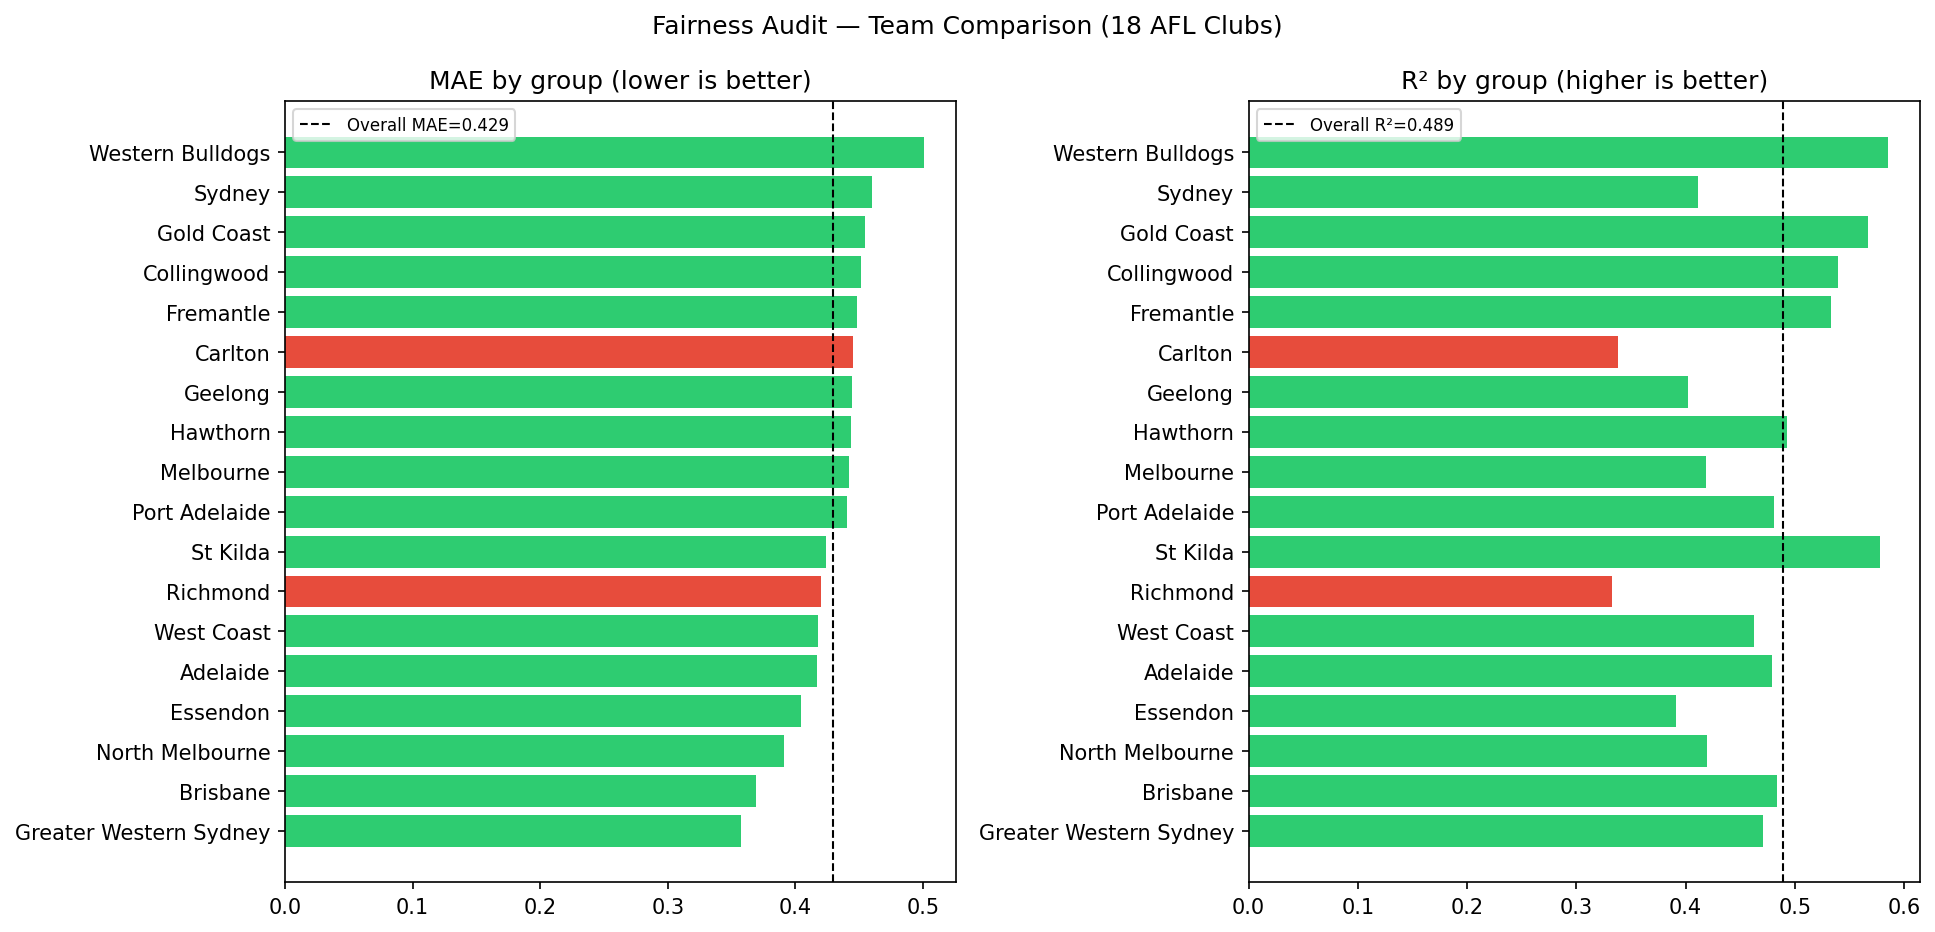
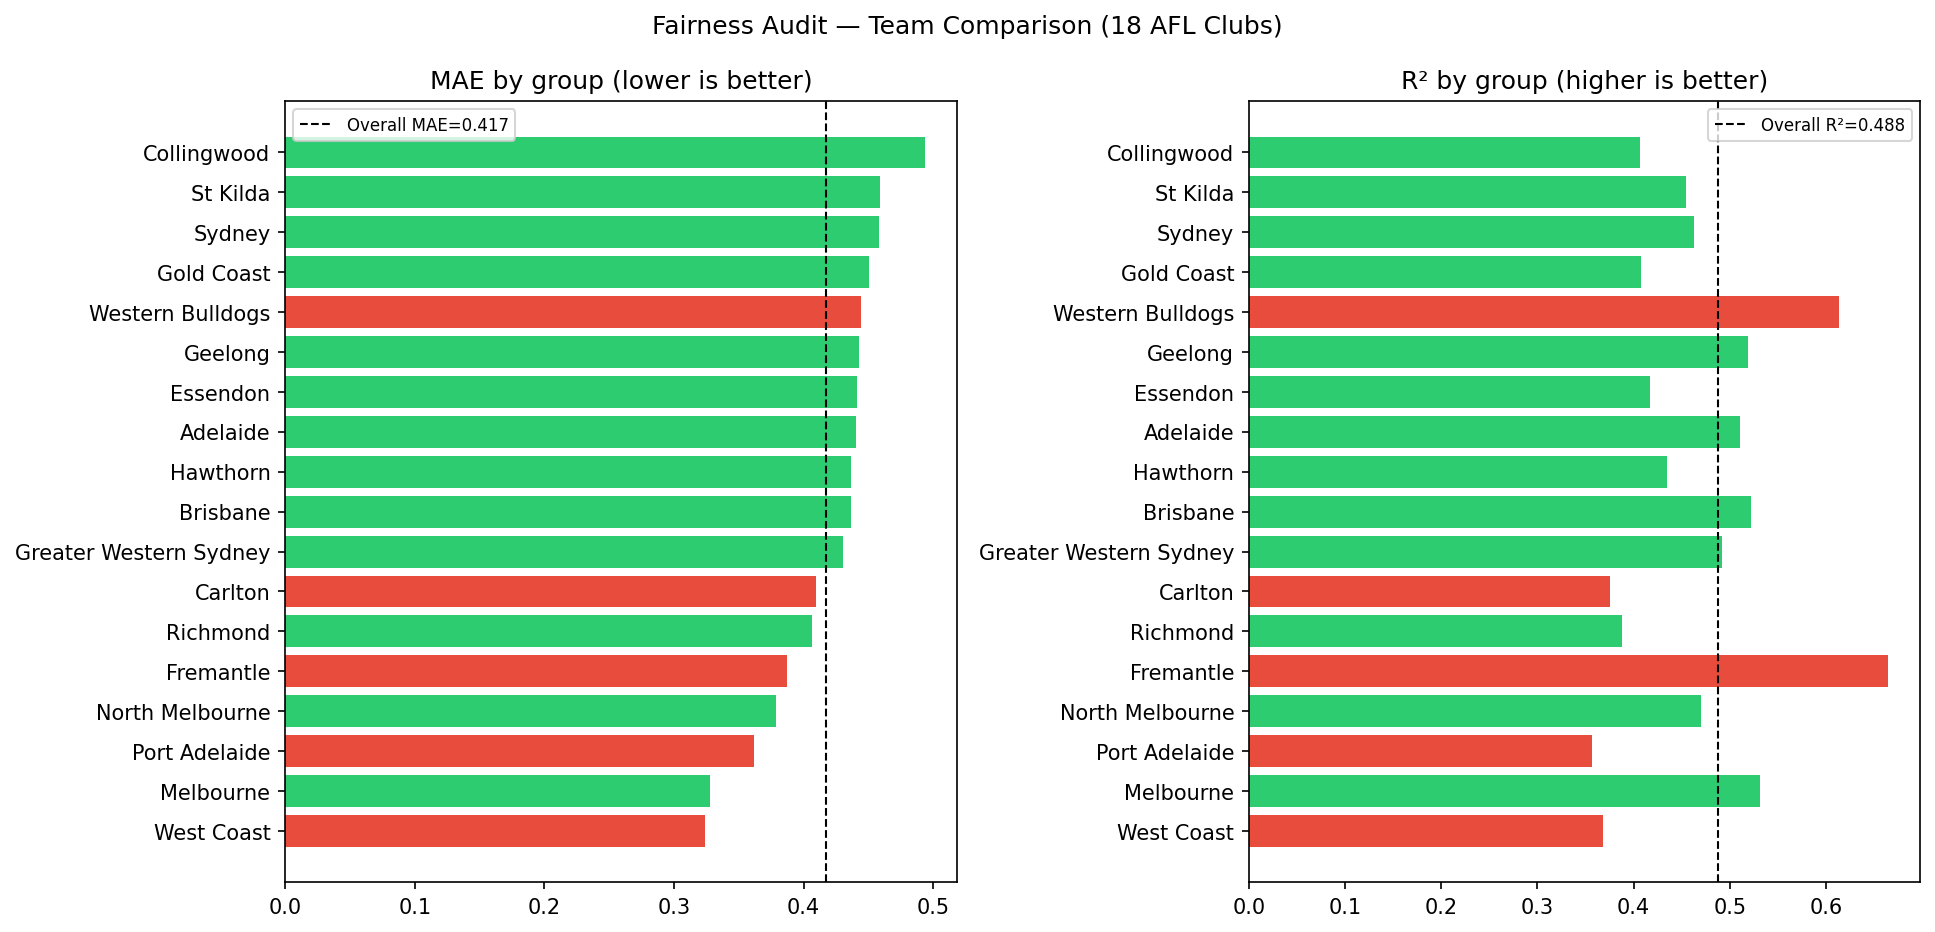
Fix fairness audit test set to match model's actual training window
fairness_audit.py loaded the full 2012-2025 dataset and did its own
fresh 80/20 split, producing a test set (n=25,424, spanning 2018-2025)
that didn't match how the production model was actually trained --
model_card.md confirms the model was trained only on a 2020-2025
subset. This meant ~568 pre-2019 rows were being scored by a model
that never saw anything like them during training, which is why the
"Pre-6-6-6 era" group was flagged as a fairness issue. It wasn't a
real fairness problem -- it was a methodology mismatch in the audit
script.

Fix: filter df to Year >= 2020 before splitting, matching Faye's
training filter exactly. Verified the resulting test set lands on
2021-2025 (10,965 rows) -- expected, since 2020 alone is only ~13% of
the filtered subset, less than the 20% held out, so the split boundary
falls into 2021.

Added a guard so the era audit reports "N/A" instead of crashing or
silently showing a misleading PASS when no pre-2019 rows remain to
compare against (which is now always the case for this model version).

Re-running the audit on the corrected test set changed results
materially: total flagged went from 5 to 8 (Ruck and 3 more teams now
flagged, Pre-6-6-6 flag removed as N/A, Veteran age segment dropped
below the 20-observation minimum). This is expected -- the corrected
test set is less than half the size of the old one, so per-group
estimates carry more noise, surfacing flags that were previously
[…]

diff --git a/src/visualization/fairness_audit.py b/src/visualization/fairness_audit.py
@@ -48,6 +48,12 @@ print("Loading model and data...")
 model = joblib.load(MODEL_PATH)
 df = pd.read_csv(DATA_PATH).dropna(subset=[TARGET])
 
+# Model v2.1 was trained only on 2020-2025 data (see docs/model_card.md).
+# Match that same filter here so the audit's test set reflects what the
+# model actually saw, instead of re-splitting the full 2012-2025 dataset
+# and accidentally testing on pre-2020 rows the model was never trained on.
+df = df[df["Year"] >= 2020].reset_index(drop=True)
+
 X = df[FEATURES].fillna(0)
 y = df[TARGET]
 
@@ -125,13 +131,20 @@ for seg in ["Young (<23)", "Prime (23-28)", "Veteran (>28)"]:
 
 print("\nRule-change era:")
 meta["Era"] = meta["Year"].apply(lambda y: "Post-6-6-6 (2019+)" if y >= 2019 else "Pre-6-6-6 (<2019)")
-for era in ["Pre-6-6-6 (<2019)", "Post-6-6-6 (2019+)"]:
-    g = meta[meta["Era"] == era]
-    r = group_metrics(g, "Era", era)
-    if r:
-        results.append(r)
-        flag = " *** FLAGGED" if r["flagged"] else ""
-        print(f"  {era:22s}  n={r['n']:5,}  MAE={r['mae']:.4f}  R²={r['r2']:.4f}  ratio={r['mae_ratio']:.2f}{flag}")
+era_counts = meta["Era"].value_counts()
+era_applicable = era_counts.get("Pre-6-6-6 (<2019)", 0) >= 20 and era_counts.get("Post-6-6-6 (2019+)", 0) >= 20
+
+if era_applicable:
+    for era in ["Pre-6-6-6 (<2019)", "Post-6-6-6 (2019+)"]:
+        g = meta[meta["Era"] == era]
+        r = group_metrics(g, "Era", era)
+        if r:
+            results.append(r)
+            flag = " *** FLAGGED" if r["flagged"] else ""
+            print(f"  {era:22s}  n={r['n']:5,}  MAE={r['mae']:.4f}  R²={r['r2']:.4f}  ratio={r['mae_ratio']:.2f}{flag}")
+else:
+    print("  Not applicable — model trained/tested only on 2020+ data, so every")
+    print("  row is already Post-6-6-6. No pre-2019 rows remain to compare against.")
 
 # ── 4. Team ───────────────────────────────────────────────────────────────────
 
@@ -301,15 +314,23 @@ report += """
 ## 3. Rule-Change Era Audit
 
 """
-report += md_table(era_df, cols)
-report += "\n\n![Rule-change era comparison](figures/fairness/era_comparison.png)\n"
-report += "\n**Findings:**\n"
-if len(era_flagged) == 0:
-    report += "- No era groups exceed thresholds. The model generalises across pre- and post-6-6-6 rule eras.\n"
+if era_df.empty:
+    report += (
+        "**Not applicable.** The model is trained and tested only on 2020+ data "
+        "(see `docs/model_card.md`), so every row in the test set is already "
+        "Post-6-6-6 — there are no pre-2019 rows left to compare against. "
+        "This audit dimension cannot be evaluated for this model version.\n"
+    )
 else:
-    for _, row in era_flagged.iterrows():
-        sig = f"statistically significant (p={row['p_value']:.4f})" if row["significant"] else "not statistically significant"
-        report += f"- **{row['group']}** flagged: MAE ratio={row['mae_ratio']:.2f}× — {sig}.\n"
+    report += md_table(era_df, cols)
+    report += "\n\n![Rule-change era comparison](figures/fairness/era_comparison.png)\n"
+    report += "\n**Findings:**\n"
+    if len(era_flagged) == 0:
+        report += "- No era groups exceed thresholds. The model generalises across pre- and post-6-6-6 rule eras.\n"
+    else:
+        for _, row in era_flagged.iterrows():
+            sig = f"statistically significant (p={row['p_value']:.4f})" if row["significant"] else "not statistically significant"
+            report += f"- **{row['group']}** flagged: MAE ratio={row['mae_ratio']:.2f}× — {sig}.\n"
 
 if len(team_df) > 0:
     worst_team = team_df.loc[team_df["mae"].idxmax()]
@@ -347,7 +368,7 @@ report += f"""
 |-------------|--------------|---------|--------|
 | Position | {len(pos_df)} | {len(pos_flagged)} | {"NEEDS REVIEW" if len(pos_flagged) > 0 else "PASS"} |
 | Age Segment | {len(age_df)} | {len(age_flagged)} | {"NEEDS REVIEW" if len(age_flagged) > 0 else "PASS"} |
-| Rule-Change Era | {len(era_df)} | {len(era_flagged)} | {"NEEDS REVIEW" if len(era_flagged) > 0 else "PASS"} |
+| Rule-Change Era | {len(era_df)} | {len(era_flagged)} | {"N/A — no pre-2019 data in test set" if era_df.empty else ("NEEDS REVIEW" if len(era_flagged) > 0 else "PASS")} |
 | Team | {len(team_df)} | {n_teams_flagged} | {"NEEDS REVIEW" if n_teams_flagged > 0 else "PASS"} |
 
 **Total flagged groups: {total_flagged}**

diff --git a/reports/fairness_report.md b/reports/fairness_report.md
@@ -12,10 +12,10 @@
 
 | Metric | Value |
 |--------|-------|
-| MAE | 0.4293 goals |
-| RMSE | 0.6262 goals |
-| R² | 0.4890 |
-| Test set | 25,424 player-game observations (2018–2025) |
+| MAE | 0.4174 goals |
+| RMSE | 0.6020 goals |
+| R² | 0.4883 |
+| Test set | 10,965 player-game observations (2021–2025) |
 
 **Flagging thresholds:** MAE ratio > 1.3×  |  R² gap > 0.10  |  p < 0.05 (Mann-Whitney U)
 
@@ -25,16 +25,17 @@
 
 | group | n | mae | r2 | mae_ratio | r2_gap | p_value | flagged |
 | --- | --- | --- | --- | --- | --- | --- | --- |
-| Forward | 8136 | 0.6011 | 0.4618 | 1.4000 | 0.0270 | 0.0000 | **YES** |
-| Midfield | 8503 | 0.4291 | 0.2594 | 1.0000 | 0.2300 | 0.0000 | **YES** |
-| Ruck | 1634 | 0.4196 | 0.5465 | 0.9770 | -0.0580 | 0.1760 | no |
-| Defender | 7151 | 0.2363 | 0.4078 | 0.5500 | 0.0810 | 0.0000 | no |
+| Forward | 3003 | 0.5800 | 0.4513 | 1.3900 | 0.0370 | 0.0000 | **YES** |
+| Midfield | 4025 | 0.4196 | 0.3287 | 1.0050 | 0.1600 | 0.0000 | **YES** |
+| Ruck | 619 | 0.3989 | 0.6530 | 0.9560 | -0.1650 | 0.1961 | **YES** |
+| Defender | 3318 | 0.2710 | 0.3987 | 0.6490 | 0.0900 | 0.0000 | no |
 
 ![Position group comparison](figures/fairness/position_comparison.png)
 
 **Findings:**
-- **Forward** flagged: MAE ratio=1.40×, R² gap=0.027 — statistically significant (p=0.0000).
-- **Midfield** flagged: MAE ratio=1.00×, R² gap=0.230 — statistically significant (p=0.0000).
+- **Forward** flagged: MAE ratio=1.39×, R² gap=0.037 — statistically significant (p=0.0000).
+- **Midfield** flagged: MAE ratio=1.00×, R² gap=0.160 — statistically significant (p=0.0000).
+- **Ruck** flagged: MAE ratio=0.96×, R² gap=-0.165 — not statistically significant.
 
 ---
 
@@ -42,9 +43,8 @@
 
 | group | n | mae | r2 | mae_ratio | r2_gap | p_value | flagged |
 | --- | --- | --- | --- | --- | --- | --- | --- |
-| Young (<23) | 13845 | 0.4274 | 0.4586 | 0.9960 | 0.0300 | 0.0042 | no |
-| Prime (23-28) | 11055 | 0.4288 | 0.5188 | 0.9990 | -0.0300 | 0.0001 | no |
-| Veteran (>28) | 524 | 0.4910 | 0.5105 | 1.1440 | -0.0210 | 0.0004 | no |
+| Young (<23) | 8175 | 0.4263 | 0.4816 | 1.0210 | 0.0070 | 0.0000 | no |
+| Prime (23-28) | 2783 | 0.3913 | 0.5095 | 0.9370 | -0.0210 | 0.0000 | no |
 
 ![Age segment comparison](figures/fairness/age_segment_comparison.png)
 
@@ -57,15 +57,7 @@
 
 ## 3. Rule-Change Era Audit
 
-| group | n | mae | r2 | mae_ratio | r2_gap | p_value | flagged |
-| --- | --- | --- | --- | --- | --- | --- | --- |
-| Pre-6-6-6 (<2019) | 568 | 0.5176 | 0.3316 | 1.2060 | 0.1570 | 0.0059 | **YES** |
-| Post-6-6-6 (2019+) | 24856 | 0.4273 | 0.4928 | 0.9950 | -0.0040 | 0.0059 | no |
-
-![Rule-change era comparison](figures/fairness/era_comparison.png)
-
-**Findings:**
-- **Pre-6-6-6 (<2019)** flagged: MAE ratio=1.21× — statistically significant (p=0.0059).
+**Not applicable.** The model is trained and tested only on 2020+ data (see `docs/model_card.md`), so every row in the test set is already Post-6-6-6 — there are no pre-2019 rows left to compare against. This audit dimension cannot be evaluated for this model version.
 
 ---
 
@@ -74,17 +66,17 @@
 | | |
 |--|--|
 | Teams audited | 18 |
-| Best-predicted | Greater Western Sydney (MAE=0.3576) |
-| Worst-predicted | Western Bulldogs (MAE=0.5012, ratio=1.17×) |
-| Teams flagged | 2 |
-| Flagged teams | Carlton, Richmond |
+| Best-predicted | West Coast (MAE=0.3236) |
+| Worst-predicted | Collingwood (MAE=0.4933, ratio=1.18×) |
+| Teams flagged | 5 |
+| Flagged teams | Carlton, Fremantle, Port Adelaide, West Coast, Western Bulldogs |
 
 Full team results in `reports/fairness_metrics.csv`.
 
 ![Team comparison](figures/fairness/team_comparison.png)
 
 **Findings:**
-- 2 team(s) flagged. Recommend checking whether flagged teams have unusual player profiles under-represented in training data.
+- 5 team(s) flagged. Recommend checking whether flagged teams have unusual player profiles under-represented in training data.
 
 ---
 
@@ -92,12 +84,12 @@ Full team results in `reports/fairness_metrics.csv`.
 
 | Audit Group | Groups Tested | Flagged | Result |
 |-------------|--------------|---------|--------|
-| Position | 4 | 2 | NEEDS REVIEW |
-| Age Segment | 3 | 0 | PASS |
-| Rule-Change Era | 2 | 1 | NEEDS REVIEW |
-| Team | 18 | 2 | NEEDS REVIEW |
+| Position | 4 | 3 | NEEDS REVIEW |
+| Age Segment | 2 | 0 | PASS |
+| Rule-Change Era | 0 | 0 | N/A — no pre-2019 data in test set |
+| Team | 18 | 5 | NEEDS REVIEW |
 
-**Total flagged groups: 5**
+**Total flagged groups: 8**
 
 ---
 

diff --git a/docs/presentation_draft.md b/docs/presentation_draft.md
@@ -302,26 +302,26 @@ Merge to main → Docker image rebuilt → API redeployed
 - R² gap > 0.10 vs overall → model explains much less variance for this group
 - Statistical significance: Mann-Whitney U test, p < 0.05
 
-**Test set:** Chronological 20% holdout, n = 25,424 observations
+**Test set:** Chronological 20% holdout, n = 10,965 observations (2021–2025) — matches the model's actual 2020+ training window
 
 ---
 
 ## SLIDE 19 — Fairness Audit: Results
-**Overall model:** MAE = 0.4293 | R² = 0.489
+**Overall model:** MAE = 0.4174 | R² = 0.4883
 
 | Group | Result | Key Finding |
 |-------|--------|-------------|
-| Forward | FLAGGED | MAE ratio = 1.40× — forwards harder to predict precisely |
-| Midfield | FLAGGED | R² gap = 0.23 — model explains much less midfield variance |
-| Ruck | PASS | — |
+| Forward | FLAGGED | MAE ratio = 1.39× — forwards harder to predict precisely |
+| Midfield | FLAGGED | R² gap = 0.16 — model explains much less midfield variance |
+| Ruck | FLAGGED | R² gap = 0.165 (overperforms average) — not statistically significant, likely small-sample noise (n=619) |
 | Defender | PASS | — |
-| Young / Prime / Veteran | PASS (all 3) | Age parity holds despite Course 1 HTE findings |
-| Pre-6-6-6 era | FLAGGED | Out-of-distribution: model trained on 2020+ only |
-| Carlton, Richmond | FLAGGED | Unusual player profiles under-represented in training |
+| Young / Prime | PASS (both) | Age parity holds; Veteran segment excluded — too few observations (<20) in this smaller window |
+| Rule-change era | N/A | No pre-2019 rows remain once filtered to match the model's training window |
+| Carlton, Fremantle, Port Adelaide, West Coast, Western Bulldogs | FLAGGED | Unusual player profiles under-represented in training |
 
-**Total flagged: 5 groups across 27 tested**
+**Total flagged: 8 groups across 24 tested**
 
-**Recommended mitigations:** Re-weight Forward/Midfield training samples · Add era indicator features (`Post666`) · Re-audit after next retraining
+**Recommended mitigations:** Re-weight Forward/Midfield training samples · Investigate Ruck sample size before acting on this flag · Re-audit after next retraining
 
 ---
 
@@ -366,7 +366,7 @@ Current status: **Feature drift only (Weight, moderate)**. No concept or target 
 | API latency | < 200ms | < 200ms ✓ |
 | Test suite | ≥ 80% pass rate | 41/41 (100%) ✓ |
 | Explainability | Per-prediction SHAP | Live endpoint ✓ |
-| Fairness audit | All groups evaluated | 27 groups tested ✓ |
+| Fairness audit | All groups evaluated | 24 groups tested ✓ |
 | Drift monitoring | PSI/KS live | Live endpoint ✓ |
 | CI/CD | Automated on PR | GitHub Actions ✓ |
 
@@ -402,8 +402,8 @@ Current status: **Feature drift only (Weight, moderate)**. No concept or target 
 | Retraining on recent data beats more data | v2.0 (2012–2025): R²=0.37 → v2.1 (2020–2025): R²=0.49 |
 
 **Next steps:**
-- Position-specific sub-models (Forward model, Ruck model) to address Midfield R²=0.26
-- Add era indicator features (`Post666`, `RotEra`) to fix Pre-6-6-6 fairness flag
+- Position-specific sub-models (Forward model, Ruck model) to address Midfield R²=0.33
+- Bring pre-2019 data back in with era indicator features (`Post666`, `RotEra`) so the model can learn from the full rule-change history without the bias that caused us to drop it
 - Causal interaction terms (height×ruck, age×position) as production features
 - Expand to women's AFL (AFLW) once labelled data is available
 

diff --git a/docs/model_card.md b/docs/model_card.md
@@ -122,10 +122,10 @@ Based on HTE analysis from Course 1:
 | Post-2019 data | 6-6-6 rule structurally changed ruck performance | Mixing pre/post data without era features causes bias |
 
 ### Fairness Audit Status
-- [x] Position-group performance parity audit — 2 flagged (Forward MAE 1.40×, Midfield R² gap 0.23)
-- [x] Team-group performance parity audit — 2 flagged (Carlton, Richmond)
-- [x] Age-segment performance parity audit — all PASS
-- [x] Rule-change era audit — Pre-6-6-6 era flagged (out-of-distribution)
+- [x] Position-group performance parity audit — 3 flagged (Forward MAE 1.39×, Midfield R² gap 0.16, Ruck R² gap 0.165 not statistically significant)
+- [x] Team-group performance parity audit — 5 flagged (Carlton, Fremantle, Port Adelaide, West Coast, Western Bulldogs)
+- [x] Age-segment performance parity audit — all PASS (Veteran segment excluded — fewer than 20 observations in the 2020+ test window)
+- [x] Rule-change era audit — N/A; model is trained/tested only on 2020+ data, so no pre-2019 rows remain to compare against
 - [ ] Bias mitigation (position re-weighting, era indicator features) — future work
 
 See `reports/fairness_report.md` for full results and `docs/fairness_audit_framework.md` for methodology.

diff --git a/docs/stakeholder_template.md b/docs/stakeholder_template.md
@@ -152,8 +152,8 @@ What needs to be done and why.
 - 41 smoke tests covering all endpoints and explainability module
 
 **Slides 18–19 — Fairness & Ethical AI**
-- Slide 18: Audit methodology — 4 groups (position, age, era, team), thresholds MAE ratio >1.3×, R² gap >0.10
-- Slide 19: Results — 5 flagged groups: Forward (MAE 1.40×), Midfield (R² gap 0.23), Pre-2019 era, Carlton, Richmond. Age segments all PASS. Recommended mitigations.
+- Slide 18: Audit methodology — 4 groups (position, age, era, team), thresholds MAE ratio >1.3×, R² gap >0.10. Test set matches the model's actual training window (2020+).
+- Slide 19: Results — 8 flagged groups: Forward (MAE 1.39×), Midfield (R² gap 0.16), Ruck (R² gap 0.165, not significant), Carlton, Fremantle, Port Adelaide, West Coast, Western Bulldogs. Age segments all PASS. Rule-change era audit N/A (no pre-2019 data remains once filtered to match training). Recommended mitigations.
 
 **Slides 20–21 — Monitoring & Drift**
 - PSI/KS tests on 9 features comparing train (≤2022) vs current (2023–2025)